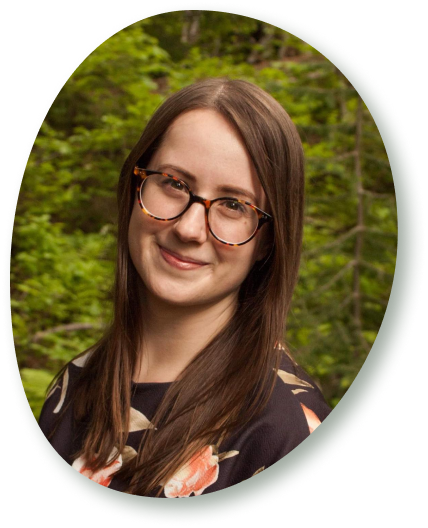
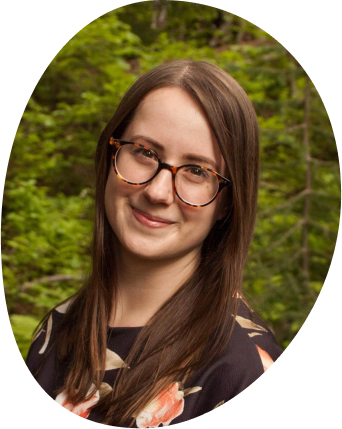
:lipstick: replaced assets and readjusted css

diff --git a/pages/home/home.css b/pages/home/home.css
@@ -468,17 +468,18 @@
 }
 
 .vision__image img {
-    width: 20em;
+    width: 16em;
     justify-self: center;
+    filter: drop-shadow(1em 1em 1em var(--clr-pine-1));
     /* opacity: 0.2; */
 }
 
 .vision__image svg {
     position: absolute;
     z-index: -1;
-    width: 22em;
-    left: -2.5em;
-    bottom: -3em;
+    width: 24em;
+    left: -4.6em;
+    bottom: -4em;
 }
 
-.btn--fancy {}
+/* .btn--fancy {} */
